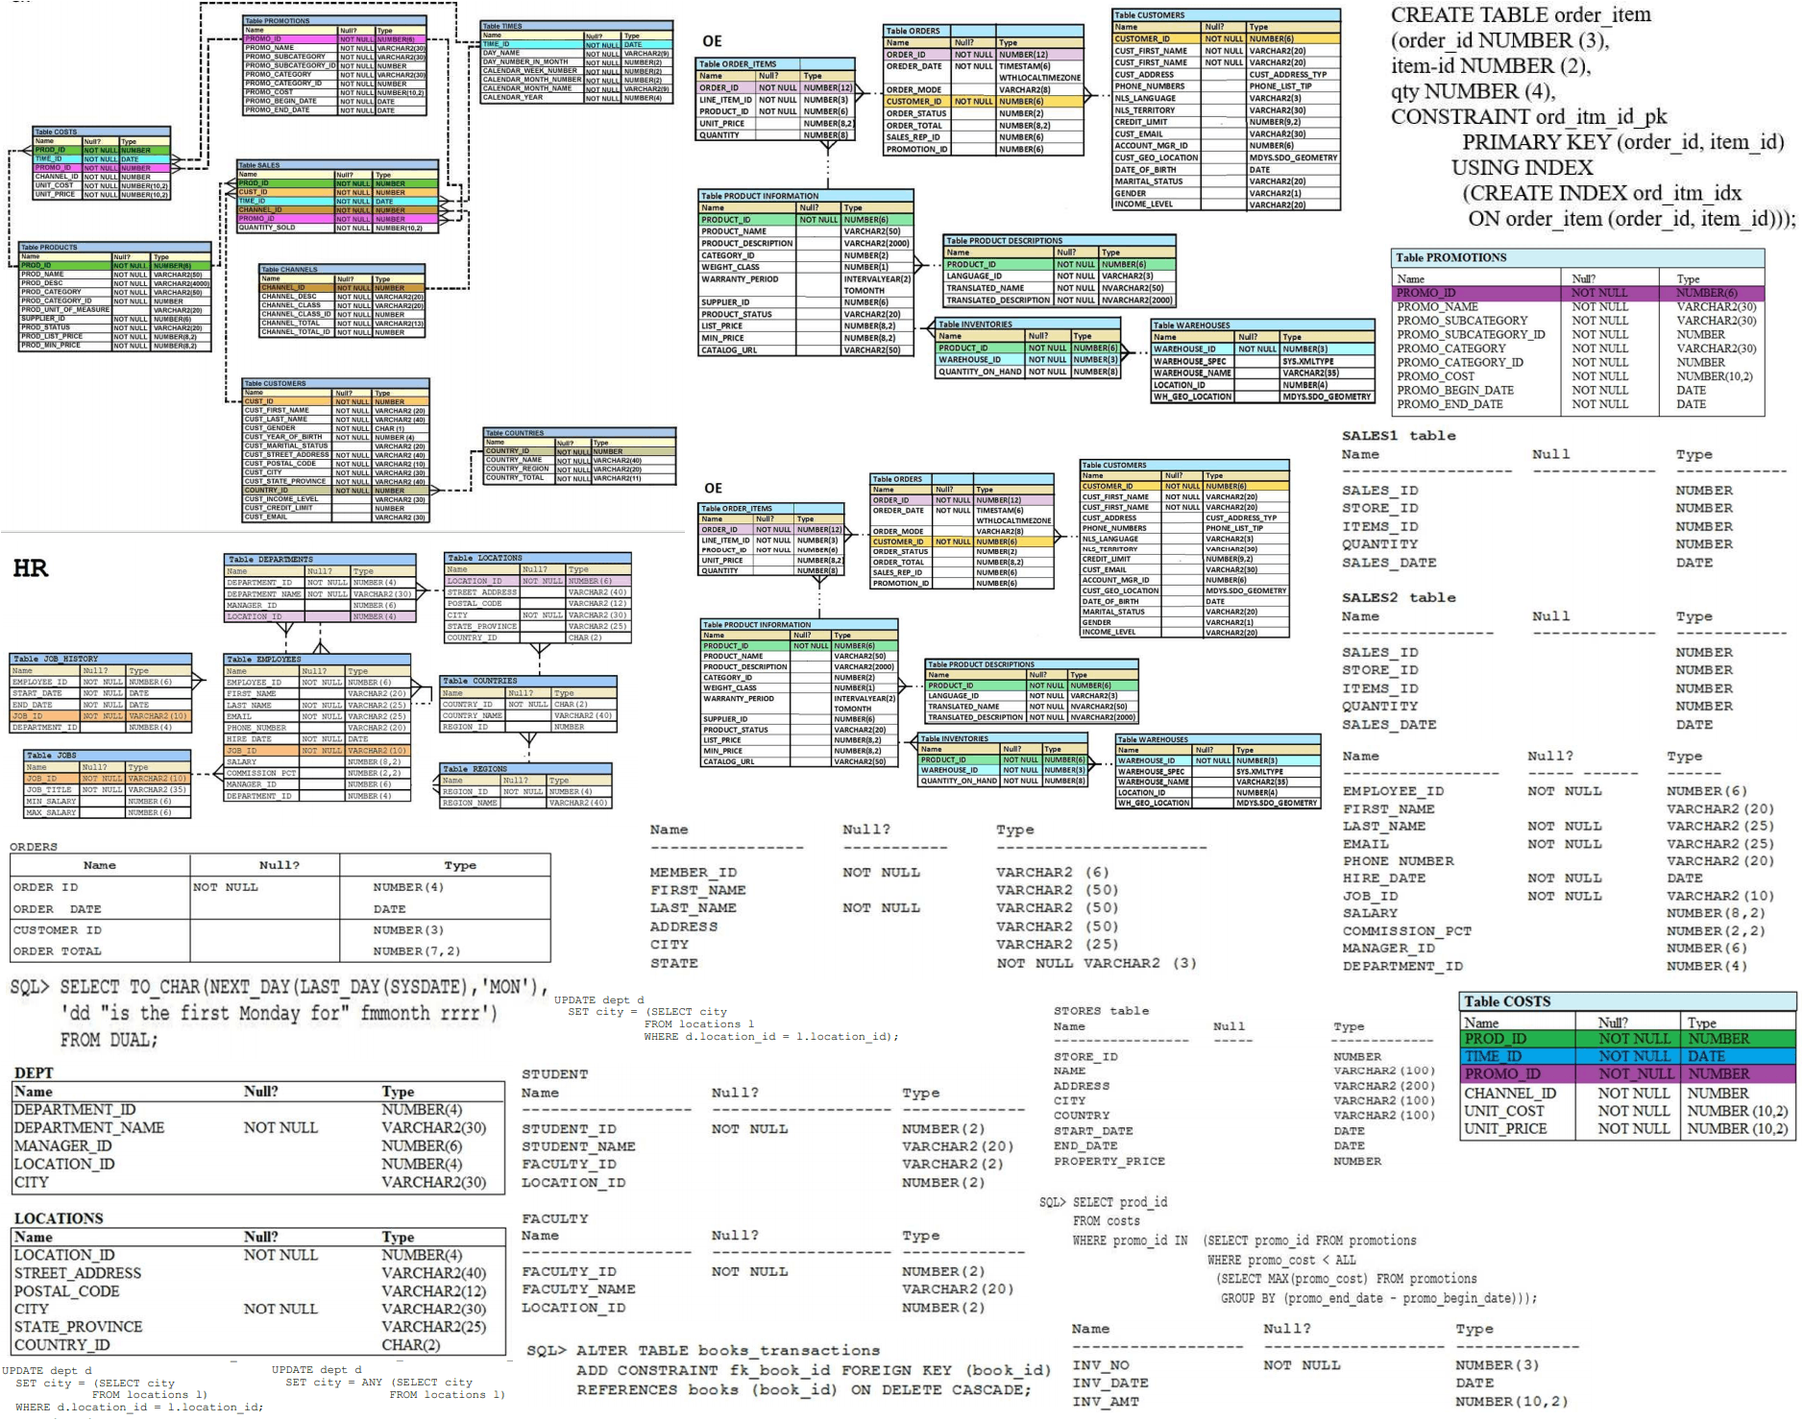
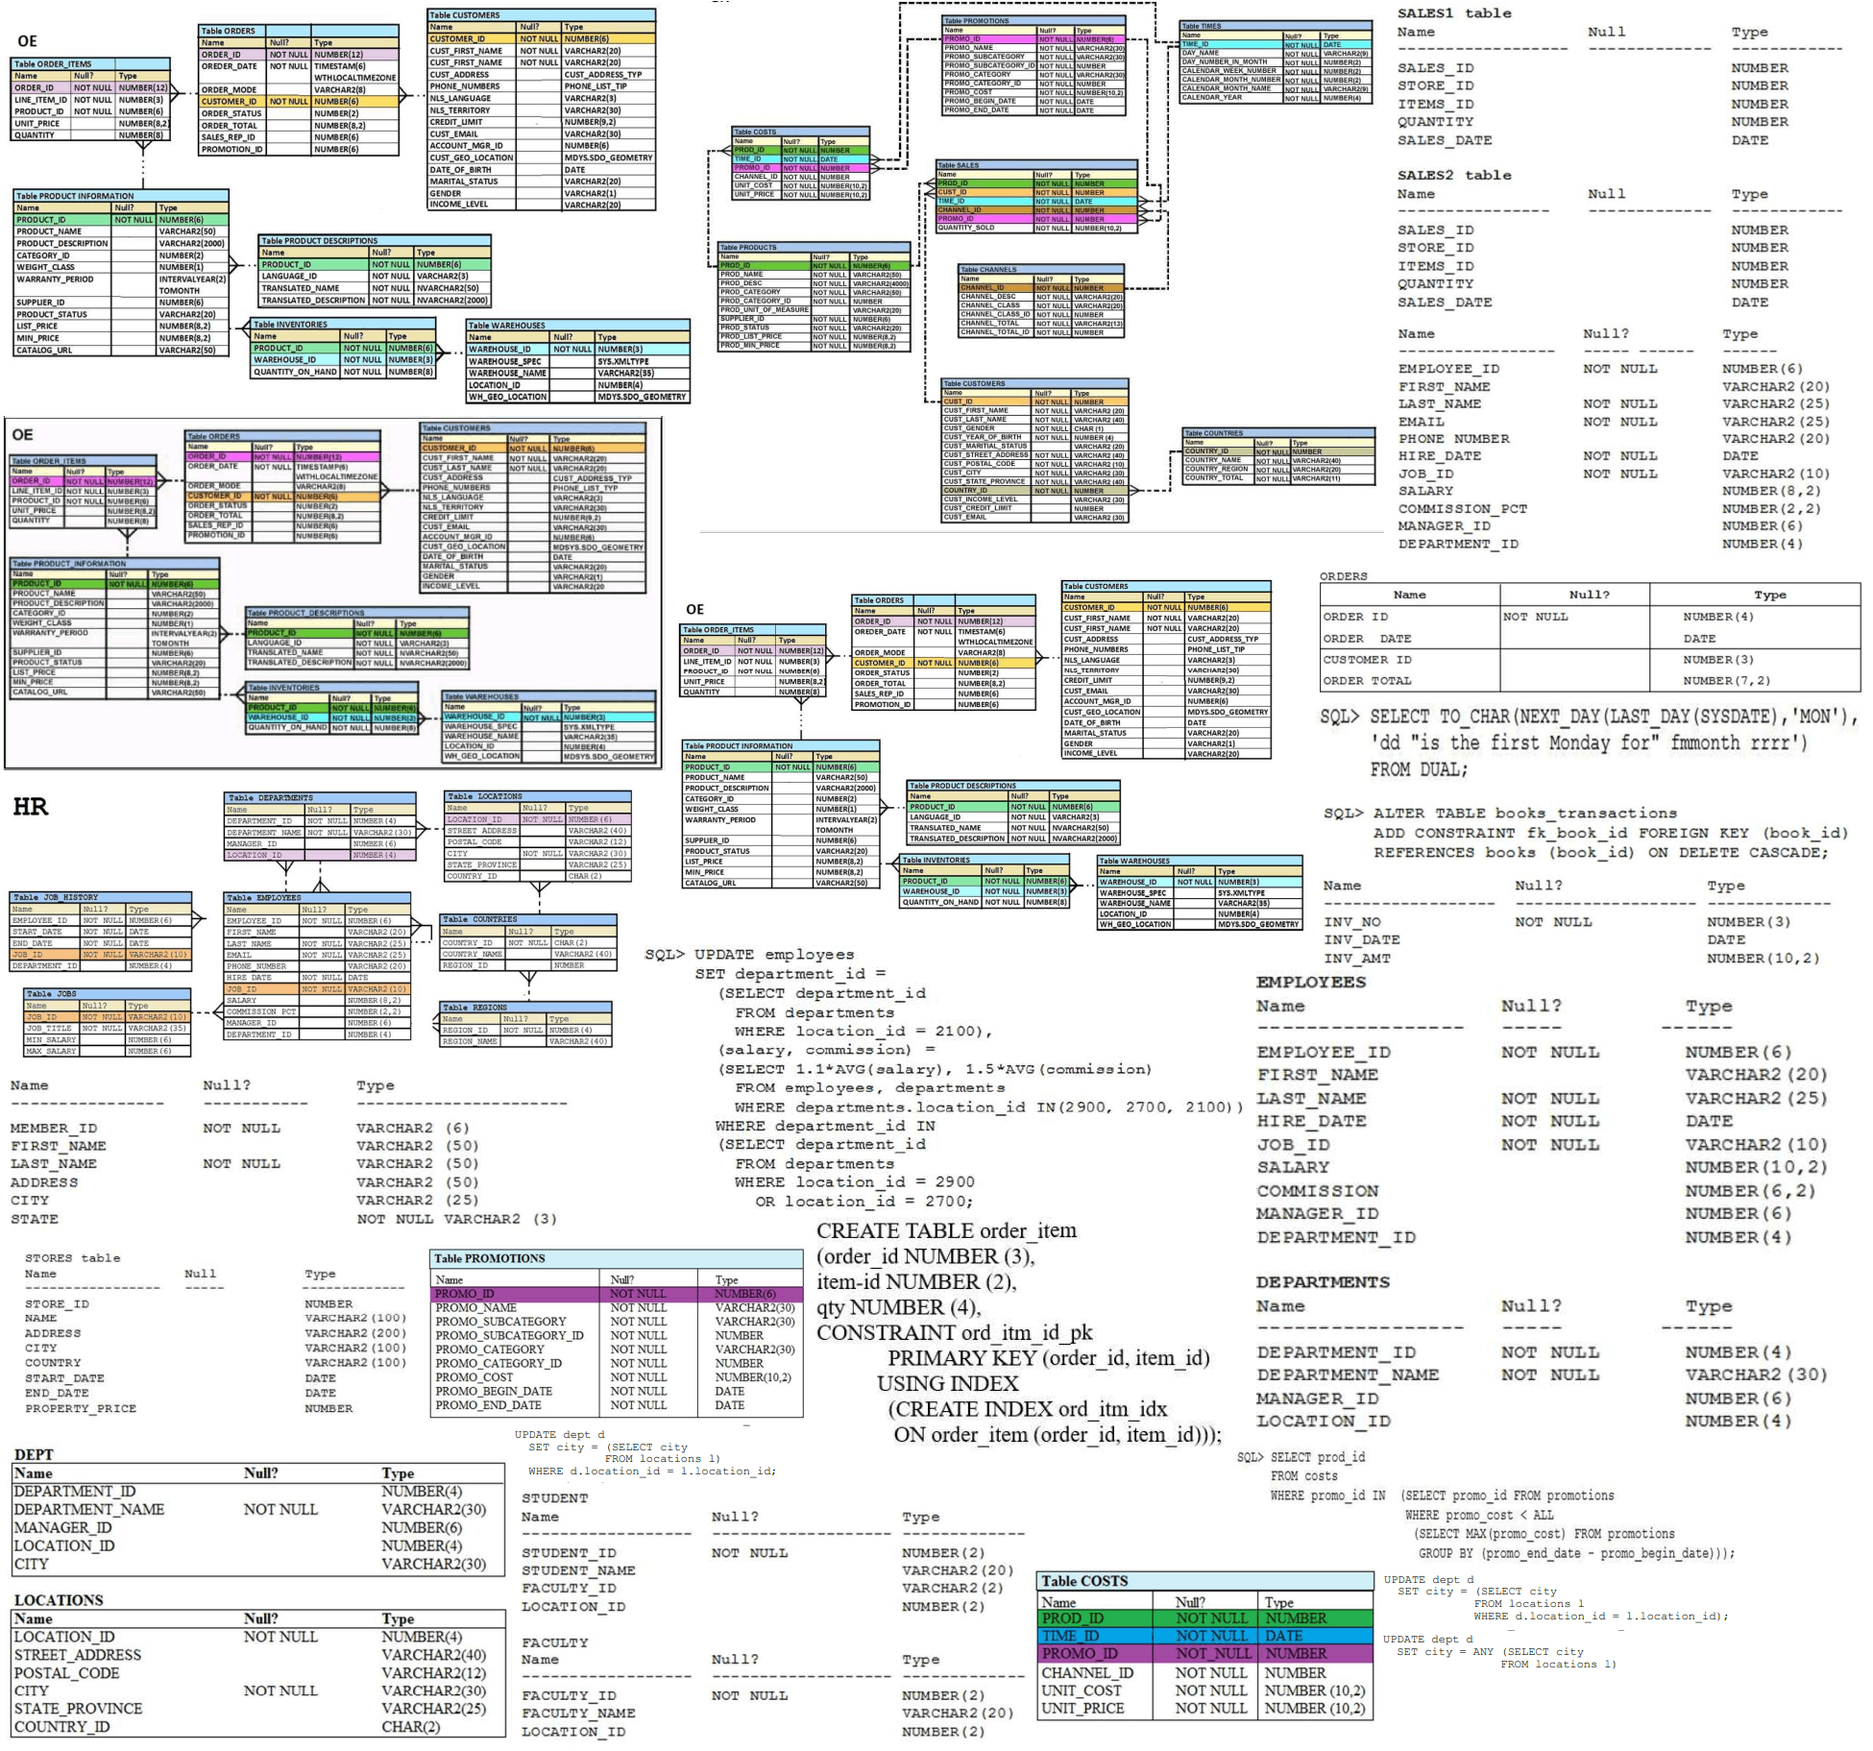
Fixed.

diff --git a/img/certifications/oracle/12c_1z0_071/12c-1z0_071set1.css b/img/certifications/oracle/12c_1z0_071/12c-1z0_071set1.css
@@ -8,67 +8,76 @@ Responsive: <div class="yourspritesname"></div>
 
 
 .orcl_sql_12c_1zo_71_10 {max-width:439px; max-height:204px; }
-.orcl_sql_12c_1zo_71_10::after {content: '\00a0';display: inline-block; width:439px; height:204px; background-position: 74.54798331015299% 80.86274509803921%;background-size: 427.5626423690205% 725%;background-image: url(12c-1z0_071set1.png);padding: 0; }
+.orcl_sql_12c_1zo_71_10::after {content: '\00a0';display: inline-block; width:439px; height:204px; background-position: 0.06618133686300463% 79.55528103767757%;background-size: 444.19134396355355% 893.6274509803922%;background-image: url(12c-1z0_071set1.png);padding: 0; }
 div.orcl_sql_12c_1zo_71_10::after {max-width:439px; width:100%;height:0;padding: 0 0 46.46924829157175% 0;}
 .orcl_sql_12c_1zo_71_12 {max-width:567px; max-height:84px; }
-.orcl_sql_12c_1zo_71_12::after {content: '\00a0';display: inline-block; width:567px; height:84px; background-position: 40.83969465648855% 99.06810035842294%;background-size: 331.0405643738977% 1760.7142857142858%;background-image: url(12c-1z0_071set1.png);padding: 0; }
+.orcl_sql_12c_1zo_71_12::after {content: '\00a0';display: inline-block; width:567px; height:84px; background-position: 98.69848156182212% 47.268545140885564%;background-size: 343.9153439153439% 2170.2380952380954%;background-image: url(12c-1z0_071set1.png);padding: 0; }
 div.orcl_sql_12c_1zo_71_12::after {max-width:567px; width:100%;height:0;padding: 0 0 14.814814814814815% 0;}
 .orcl_sql_12c_1zo_71_13 {max-width:665px; max-height:316px; }
-.orcl_sql_12c_1zo_71_13::after {content: '\00a0';display: inline-block; width:665px; height:316px; background-position: 0.08250825082508251% 47.80739466895959%;background-size: 282.25563909774434% 468.0379746835443%;background-image: url(12c-1z0_071set1.png);padding: 0; }
+.orcl_sql_12c_1zo_71_13::after {content: '\00a0';display: inline-block; width:665px; height:316px; background-position: 0.07782101167315175% 53.35102853351029%;background-size: 293.23308270676694% 576.8987341772151%;background-image: url(12c-1z0_071set1.png);padding: 0; }
 div.orcl_sql_12c_1zo_71_13::after {max-width:665px; width:100%;height:0;padding: 0 0 47.5187969924812% 0;}
 .orcl_sql_12c_1zo_71_14 {max-width:474px; max-height:257px; }
-.orcl_sql_12c_1zo_71_14::after {content: '\00a0';display: inline-block; width:474px; height:257px; background-position: 98.64575908766928% 63.256955810147296%;background-size: 395.9915611814346% 575.4863813229572%;background-image: url(12c-1z0_071set1.png);padding: 0; }
+.orcl_sql_12c_1zo_71_14::after {content: '\00a0';display: inline-block; width:474px; height:257px; background-position: 97.69647696476964% 21.264367816091955%;background-size: 411.39240506329116% 709.3385214007782%;background-image: url(12c-1z0_071set1.png);padding: 0; }
 div.orcl_sql_12c_1zo_71_14::after {max-width:474px; width:100%;height:0;padding: 0 0 54.219409282700425% 0;}
 .orcl_sql_12c_1zo_71_16 {max-width:490px; max-height:331px; }
-.orcl_sql_12c_1zo_71_16::after {content: '\00a0';display: inline-block; width:490px; height:331px; background-position: 99.78370583994233% 38.41463414634146%;background-size: 383.0612244897959% 446.82779456193356%;background-image: url(12c-1z0_071set1.png);padding: 0; }
+.orcl_sql_12c_1zo_71_16::after {content: '\00a0';display: inline-block; width:490px; height:331px; background-position: 98.76712328767124% 0.06702412868632708%;background-size: 397.9591836734694% 550.7552870090634%;background-image: url(12c-1z0_071set1.png);padding: 0; }
 div.orcl_sql_12c_1zo_71_16::after {max-width:490px; width:100%;height:0;padding: 0 0 67.55102040816327% 0;}
 .orcl_sql_12c_1zo_71_19 {max-width:614px; max-height:166px; }
-.orcl_sql_12c_1zo_71_19::after {content: '\00a0';display: inline-block; width:614px; height:166px; background-position: 52.81076801266825% 65.11805026656512%;background-size: 305.70032573289905% 890.9638554216867%;background-image: url(12c-1z0_071set1.png);padding: 0; }
+.orcl_sql_12c_1zo_71_19::after {content: '\00a0';display: inline-block; width:614px; height:166px; background-position: 0.0748502994011976% 67.65238382619191%;background-size: 317.5895765472313% 1098.1927710843374%;background-image: url(12c-1z0_071set1.png);padding: 0; }
 div.orcl_sql_12c_1zo_71_19::after {max-width:614px; width:100%;height:0;padding: 0 0 27.035830618892508% 0;}
 .orcl_sql_12c_1zo_71_23 {max-width:584px; max-height:140px; }
-.orcl_sql_12c_1zo_71_23::after {content: '\00a0';display: inline-block; width:584px; height:140px; background-position: 0.07733952049497293% 65.19790888722927%;background-size: 321.40410958904107% 1056.4285714285713%;background-image: url(12c-1z0_071set1.png);padding: 0; }
+.orcl_sql_12c_1zo_71_23::after {content: '\00a0';display: inline-block; width:584px; height:140px; background-position: 99.9267935578331% 35.115864527629235%;background-size: 333.90410958904107% 1302.142857142857%;background-image: url(12c-1z0_071set1.png);padding: 0; }
 div.orcl_sql_12c_1zo_71_23::after {max-width:584px; width:100%;height:0;padding: 0 0 23.972602739726028% 0;}
 .orcl_sql_12c_1zo_71_24 {max-width:558px; max-height:102px; }
-.orcl_sql_12c_1zo_71_24::after {content: '\00a0';display: inline-block; width:558px; height:102px; background-position: 83.62395754359363% 99.41902687000726%;background-size: 336.3799283154122% 1450%;background-image: url(12c-1z0_071set1.png);padding: 0; }
+.orcl_sql_12c_1zo_71_24::after {content: '\00a0';display: inline-block; width:558px; height:102px; background-position: 98.0603448275862% 52.701917489831494%;background-size: 349.4623655913978% 1787.2549019607843%;background-image: url(12c-1z0_071set1.png);padding: 0; }
 div.orcl_sql_12c_1zo_71_24::after {max-width:558px; width:100%;height:0;padding: 0 0 18.27956989247312% 0;}
 .orcl_sql_12c_1zo_71_25 {max-width:727px; max-height:428px; }
-.orcl_sql_12c_1zo_71_25::after {content: '\00a0';display: inline-block; width:727px; height:428px; background-position: 62.08695652173913% 0.09514747859181731%;background-size: 258.18431911966985% 345.5607476635514%;background-image: url(12c-1z0_071set1.png);padding: 0; }
+.orcl_sql_12c_1zo_71_25::after {content: '\00a0';display: inline-block; width:727px; height:428px; background-position: 0.08176614881439084% 0.07168458781362007%;background-size: 268.2255845942228% 425.93457943925233%;background-image: url(12c-1z0_071set1.png);padding: 0; }
 div.orcl_sql_12c_1zo_71_25::after {max-width:727px; width:100%;height:0;padding: 0 0 58.87207702888583% 0;}
 .orcl_sql_12c_1zo_71_29 {max-width:571px; max-height:89px; }
-.orcl_sql_12c_1zo_71_29::after {content: '\00a0';display: inline-block; width:571px; height:89px; background-position: 0.07656967840735068% 72.94964028776978%;background-size: 328.7215411558669% 1661.7977528089887%;background-image: url(12c-1z0_071set1.png);padding: 0; }
+.orcl_sql_12c_1zo_71_29::after {content: '\00a0';display: inline-block; width:571px; height:89px; background-position: 98.98477157360406% 42.21453287197232%;background-size: 341.5061295971979% 2048.3146067415732%;background-image: url(12c-1z0_071set1.png);padding: 0; }
 div.orcl_sql_12c_1zo_71_29::after {max-width:571px; width:100%;height:0;padding: 0 0 15.586690017513135% 0;}
 .orcl_sql_12c_1zo_71_32 {max-width:536px; max-height:277px; }
-.orcl_sql_12c_1zo_71_32::after {content: '\00a0';display: inline-block; width:536px; height:277px; background-position: 39.89560029828486% 91.846921797005%;background-size: 350.1865671641791% 533.9350180505415%;background-image: url(12c-1z0_071set1.png);padding: 0; }
+.orcl_sql_12c_1zo_71_32::after {content: '\00a0';display: inline-block; width:536px; height:277px; background-position: 37.835926449787834% 99.9353169469599%;background-size: 363.8059701492537% 658.1227436823104%;background-image: url(12c-1z0_071set1.png);padding: 0; }
 div.orcl_sql_12c_1zo_71_32::after {max-width:536px; width:100%;height:0;padding: 0 0 51.67910447761194% 0;}
 .orcl_sql_12c_1zo_71_41 {max-width:712px; max-height:554px; }
-.orcl_sql_12c_1zo_71_41::after {content: '\00a0';display: inline-block; width:712px; height:554px; background-position: 0.08583690987124463% 0.10810810810810811%;background-size: 263.62359550561797% 266.9675090252708%;background-image: url(12c-1z0_071set1.png);padding: 0; }
+.orcl_sql_12c_1zo_71_41::after {content: '\00a0';display: inline-block; width:712px; height:554px; background-position: 58.88529886914378% 0.07880220646178093%;background-size: 273.87640449438203% 329.0613718411552%;background-image: url(12c-1z0_071set1.png);padding: 0; }
 div.orcl_sql_12c_1zo_71_41::after {max-width:712px; width:100%;height:0;padding: 0 0 77.80898876404494% 0;}
 .orcl_sql_12c_1zo_71_44 {max-width:364px; max-height:163px; }
-.orcl_sql_12c_1zo_71_44::after {content: '\00a0';display: inline-block; width:364px; height:163px; background-position: 99.93390614672836% 78.34346504559271%;background-size: 515.6593406593406% 907.361963190184%;background-image: url(12c-1z0_071set1.png);padding: 0; }
+.orcl_sql_12c_1zo_71_44::after {content: '\00a0';display: inline-block; width:364px; height:163px; background-position: 67.59142496847414% 98.43373493975903%;background-size: 535.7142857142857% 1118.4049079754602%;background-image: url(12c-1z0_071set1.png);padding: 0; }
 div.orcl_sql_12c_1zo_71_44::after {max-width:364px; width:100%;height:0;padding: 0 0 44.78021978021978% 0;}
 .orcl_sql_12c_1zo_71_44a {max-width:402px; max-height:194px; }
-.orcl_sql_12c_1zo_71_44a::after {content: '\00a0';display: inline-block; width:402px; height:194px; background-position: 97.76271186440678% 19.14396887159533%;background-size: 466.9154228855721% 762.3711340206186%;background-image: url(12c-1z0_071set1.png);padding: 0; }
+.orcl_sql_12c_1zo_71_44a::after {content: '\00a0';display: inline-block; width:402px; height:194px; background-position: 28.488372093023255% 79.06691221608348%;background-size: 485.07462686567163% 939.6907216494845%;background-image: url(12c-1z0_071set1.png);padding: 0; }
 div.orcl_sql_12c_1zo_71_44a::after {max-width:402px; width:100%;height:0;padding: 0 0 48.25870646766169% 0;}
 .orcl_sql_12c_1zo_71_44b {max-width:528px; max-height:132px; }
-.orcl_sql_12c_1zo_71_44b::after {content: '\00a0';display: inline-block; width:528px; height:132px; background-position: 79.46627131208302% 91.75946547884188%;background-size: 355.49242424242425% 1120.4545454545455%;background-image: url(12c-1z0_071set1.png);padding: 0; }
+.orcl_sql_12c_1zo_71_44b::after {content: '\00a0';display: inline-block; width:528px; height:132px; background-position: 89.87341772151899% 88.76404494382022%;background-size: 369.3181818181818% 1381.060606060606%;background-image: url(12c-1z0_071set1.png);padding: 0; }
 div.orcl_sql_12c_1zo_71_44b::after {max-width:528px; width:100%;height:0;padding: 0 0 25% 0;}
 .orcl_sql_12c_1zo_71_45 {max-width:533px; max-height:312px; }
-.orcl_sql_12c_1zo_71_45::after {content: '\00a0';display: inline-block; width:533px; height:312px; background-position: 0.0744047619047619% 94.60154241645245%;background-size: 352.1575984990619% 474.03846153846155%;background-image: url(12c-1z0_071set1.png);padding: 0; }
+.orcl_sql_12c_1zo_71_45::after {content: '\00a0';display: inline-block; width:533px; height:312px; background-position: 0.07057163020465773% 99.33818663136995%;background-size: 365.8536585365854% 584.2948717948718%;background-image: url(12c-1z0_071set1.png);padding: 0; }
 div.orcl_sql_12c_1zo_71_45::after {max-width:533px; width:100%;height:0;padding: 0 0 58.53658536585366% 0;}
 .orcl_sql_12c_1zo_71_45b {max-width:278px; max-height:61px; }
-.orcl_sql_12c_1zo_71_45b::after {content: '\00a0';display: inline-block; width:278px; height:61px; background-position: 0.06253908692933083% 99.92947813822285%;background-size: 675.1798561151079% 2424.590163934426%;background-image: url(12c-1z0_071set1.png);padding: 0; }
+.orcl_sql_12c_1zo_71_45b::after {content: '\00a0';display: inline-block; width:278px; height:61px; background-position: 31.997607655502392% 84.16572077185018%;background-size: 701.4388489208633% 2988.5245901639346%;background-image: url(12c-1z0_071set1.png);padding: 0; }
 div.orcl_sql_12c_1zo_71_45b::after {max-width:278px; width:100%;height:0;padding: 0 0 21.942446043165468% 0;}
 .orcl_sql_12c_1zo_71_45c {max-width:254px; max-height:46px; }
-.orcl_sql_12c_1zo_71_45c::after {content: '\00a0';display: inline-block; width:254px; height:46px; background-position: 17.25200246457178% 98.88346127006281%;background-size: 738.9763779527559% 3215.217391304348%;background-image: url(12c-1z0_071set1.png);padding: 0; }
+.orcl_sql_12c_1zo_71_45c::after {content: '\00a0';display: inline-block; width:254px; height:46px; background-position: 84.72877358490567% 95.49803038829488%;background-size: 767.7165354330708% 3963.0434782608695%;background-image: url(12c-1z0_071set1.png);padding: 0; }
 div.orcl_sql_12c_1zo_71_45c::after {max-width:254px; width:100%;height:0;padding: 0 0 18.11023622047244% 0;}
 .orcl_sql_12c_1zo_71_45d {max-width:366px; max-height:62px; }
-.orcl_sql_12c_1zo_71_45d::after {content: '\00a0';display: inline-block; width:366px; height:62px; background-position: 37.92190602250165% 72.75935074100212%;background-size: 512.8415300546449% 2385.483870967742%;background-image: url(12c-1z0_071set1.png);padding: 0; }
+.orcl_sql_12c_1zo_71_45d::after {content: '\00a0';display: inline-block; width:366px; height:62px; background-position: 90.71969696969697% 92.78818852924475%;background-size: 532.7868852459017% 2940.3225806451615%;background-image: url(12c-1z0_071set1.png);padding: 0; }
 div.orcl_sql_12c_1zo_71_45d::after {max-width:366px; width:100%;height:0;padding: 0 0 16.939890710382514% 0;}
 .orcl_sql_12c_1zo_71_47 {max-width:669px; max-height:424px; }
-.orcl_sql_12c_1zo_71_47::after {content: '\00a0';display: inline-block; width:669px; height:424px; background-position: 59.10596026490066% 40.758293838862556%;background-size: 280.5680119581465% 348.8207547169811%;background-image: url(12c-1z0_071set1.png);padding: 0; }
+.orcl_sql_12c_1zo_71_47::after {content: '\00a0';display: inline-block; width:669px; height:424px; background-position: 54.25448868071819% 39.74267333809864%;background-size: 291.47982062780267% 429.95283018867923%;background-image: url(12c-1z0_071set1.png);padding: 0; }
 div.orcl_sql_12c_1zo_71_47::after {max-width:669px; width:100%;height:0;padding: 0 0 63.37817638266069% 0;}
 .orcl_sql_12c_1zo_71_48 {max-width:433px; max-height:244px; }
-.orcl_sql_12c_1zo_71_48::after {content: '\00a0';display: inline-block; width:433px; height:244px; background-position: 99.86149584487535% 0.08097165991902834%;background-size: 433.48729792147805% 606.1475409836065%;background-image: url(12c-1z0_071set1.png);padding: 0; }
+.orcl_sql_12c_1zo_71_48::after {content: '\00a0';display: inline-block; width:433px; height:244px; background-position: 55.63612392880685% 80.24065864471184%;background-size: 450.3464203233256% 747.1311475409836%;background-image: url(12c-1z0_071set1.png);padding: 0; }
 div.orcl_sql_12c_1zo_71_48::after {max-width:433px; width:100%;height:0;padding: 0 0 56.351039260969976% 0;}
+.orcl_sql_12c_1zo_71_q6 {max-width:693px; max-height:373px; }
+.orcl_sql_12c_1zo_71_q6::after {content: '\00a0';display: inline-block; width:693px; height:373px; background-position: 0.07955449482895784% 29.655172413793103%;background-size: 281.38528138528136% 488.73994638069706%;background-image: url(12c-1z0_071set1.png);padding: 0; }
+div.orcl_sql_12c_1zo_71_q6::after {max-width:693px; width:100%;height:0;padding: 0 0 53.82395382395382% 0;}
+.orcl_sql_12c_1zo_71_q7 {max-width:607px; max-height:490px; }
+.orcl_sql_12c_1zo_71_q7::after {content: '\00a0';display: inline-block; width:607px; height:490px; background-position: 96.7982129560685% 75.7689422355589%;background-size: 321.2520593080725% 372.0408163265306%;background-image: url(12c-1z0_071set1.png);padding: 0; }
+div.orcl_sql_12c_1zo_71_q7::after {max-width:607px; width:100%;height:0;padding: 0 0 80.72487644151565% 0;}
+.orcl_sql_12c_1zo_71_q7a {max-width:632px; max-height:285px; }
+.orcl_sql_12c_1zo_71_q7a::after {content: '\00a0';display: inline-block; width:632px; height:285px; background-position: 50.606980273141126% 63.78413524057217%;background-size: 308.54430379746833% 639.6491228070175%;background-image: url(12c-1z0_071set1.png);padding: 0; }
+div.orcl_sql_12c_1zo_71_q7a::after {max-width:632px; width:100%;height:0;padding: 0 0 45.09493670886076% 0;}
 
-/* $TexturePacker:SmartUpdate:fdec3a98a27c020e0efb1d8d69a5fb9b:3e385e0f95c38b79110dad1095daaa34:f0c39b5a919040e25a7790b13a1838e5$ */
+/* $TexturePacker:SmartUpdate:950fdca5eaf66115c86a3c6e33283d6e:ca3f8d509496fe3821e25b306b0c6eac:f0c39b5a919040e25a7790b13a1838e5$ */
